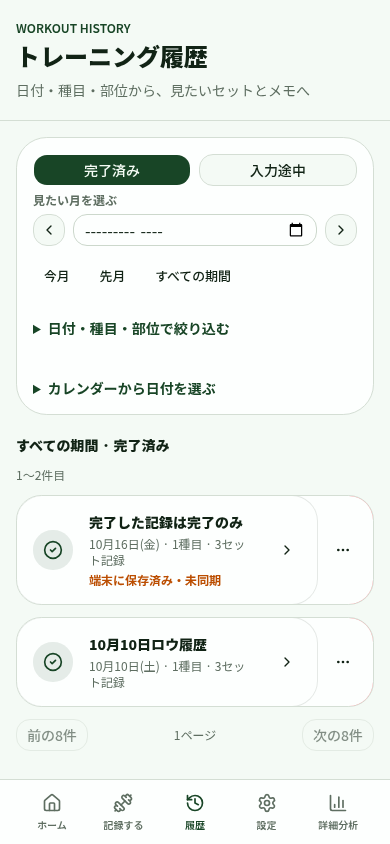
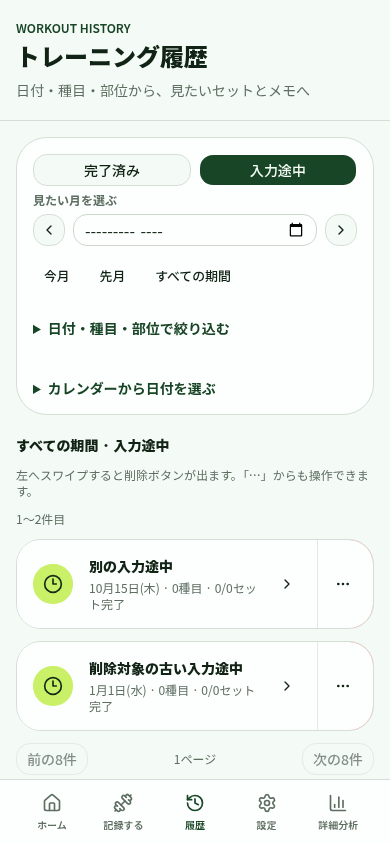
fix: keep settings focused on exercise management

diff --git a/components/settings/settings-dashboard.tsx b/components/settings/settings-dashboard.tsx
@@ -1,22 +1,15 @@
 'use client';
 
-import { useCallback, useEffect, useState } from 'react';
+import { useEffect, useState } from 'react';
 import { Button } from '@/components/ui/button';
 import { Input } from '@/components/ui/input';
-import { listExerciseMasters, getWorkoutSyncState } from '@/lib/workouts/api-client';
+import { listExerciseMasters } from '@/lib/workouts/api-client';
 import { updateCachedExerciseMaster } from '@/lib/workouts/exercise-master-cache';
-import { readLocalWorkoutSources, exportWorkoutRecoveryData, recoverLegacyWorkoutQueue, reconcileDeletedWorkout, repairCompletedWorkoutDraft } from '@/lib/workouts/local-drafts';
-import { syncPendingWorkoutMutations } from '@/lib/workouts/sync-queue';
 import type {
   ExerciseMaster,
   UpdateExerciseMasterInput,
 } from '@/lib/workouts/types';
-import { summarizeSyncQueue } from '@/lib/workouts/sync-overview';
 import { LoadBasisSelect } from '@/components/workouts/load-basis-select';
-import { WorkoutSummaryList } from '@/components/workouts/workout-summary-list';
-import { deleteWorkoutRecord } from '@/lib/workouts/draft-deletion';
-import { syncAutomatically } from '@/lib/workouts/sync-timing';
-import { WorkoutSyncList } from './workout-sync-list';
 
 export function SettingsDashboard() {
   const [items, setItems] = useState<ExerciseMaster[]>([]);
@@ -24,46 +17,8 @@ export function SettingsDashboard() {
   const [query, setQuery] = useState('');
   const [masterError, setMasterError] = useState<string | null>(null);
   const [loading, setLoading] = useState(true);
-  const [local, setLocal] = useState<Awaited<
-    ReturnType<typeof readLocalWorkoutSources>
-  > | null>(null);
-  const [localError, setLocalError] = useState<string | null>(null);
-  const [busy, setBusy] = useState<string | null>(null);
-  const [notice, setNotice] = useState<string | null>(null);
-  const refreshLocal = useCallback(
-    () =>
-      readLocalWorkoutSources().then(setLocal, (cause: unknown) =>
-        setLocalError(
-          cause instanceof Error
-            ? cause.message
-            : '端末の保存状態を取得できませんでした',
-        ),
-      ),
-    [],
-  );
-
   useEffect(() => {
     let alive = true;
-    const update = () => {
-      void readLocalWorkoutSources().then(
-        (data) => {
-          if (alive) {
-            setLocal(data);
-            setLocalError(null);
-          }
-        },
-        (cause: unknown) => {
-          if (alive)
-            setLocalError(
-              cause instanceof Error
-                ? cause.message
-                : '保存状態を取得できませんでした',
-            );
-        },
-      );
-    };
-    update();
-    window.addEventListener('repwise-sync-queue-change', update);
     void listExerciseMasters()
       .then(
         (data) => {
@@ -83,7 +38,6 @@ export function SettingsDashboard() {
       });
     return () => {
       alive = false;
-      window.removeEventListener('repwise-sync-queue-change', update);
     };
   }, []);
 
@@ -100,112 +54,9 @@ export function SettingsDashboard() {
       setLoading(false);
     }
   };
-  const retrySync = async (id: string) => {
-    setBusy(id);
-    setNotice(null);
-    try {
-      const result = await syncPendingWorkoutMutations(id, { manual: true });
-      setNotice(
-        result.failed
-          ? `同期できませんでした：${result.failed.lastError ?? '内容を確認してください'}`
-          : result.remaining
-            ? '残りの記録は自動同期を待っています。'
-            : '同期が完了しました。',
-      );
-    } catch (cause) {
-      setNotice(
-        cause instanceof Error ? cause.message : '再試行できませんでした',
-      );
-    } finally {
-      await refreshLocal();
-      setBusy(null);
-    }
-  };
-  const removeRecord = async (id: string) => {
-    const draft = local?.drafts.find(item => item.workoutId === id);
-    if (!window.confirm(`「${draft?.workout.name ?? 'この記録'}」を削除しますか？`)) return;
-    setBusy(id);
-    try {
-      await deleteWorkoutRecord(id);
-      setNotice('記録を削除しました。');
-      void syncAutomatically(id).catch(() => undefined);
-    } catch (cause) { setNotice(cause instanceof Error ? cause.message : '削除できませんでした。'); }
-    finally { await refreshLocal(); setBusy(null); }
-  };
-  const recoverRecord = async (id: string) => {
-    setBusy(id);
-    setNotice(null);
-    try {
-      await recoverLegacyWorkoutQueue();
-      const data = await readLocalWorkoutSources();
-      const draft = data.drafts.find((item) => item.workoutId === id);
-      if (!draft) throw new Error('読めない形式の記録です。端末の記録を書き出して個別の確認が必要です。');
-      const { workout: server } = await getWorkoutSyncState(id);
-      if (draft.draftStatus === 'deleted') {
-        if (!server) throw new Error('接続先に記録を確認できませんでした。記録を保護したまま、時間をおいて再確認します。');
-        if (!window.confirm(`「${server.name}」の削除を完了しますか？別の端末で更新された内容も含めて削除します。`)) return;
-        await reconcileDeletedWorkout(id, server, { draft, mutations: data.mutations.filter((item) => item.workoutId === id) });
-        const result = await syncPendingWorkoutMutations(id);
-        setNotice(result.failed ? `原本は保護済みです。${result.failed.lastError}` : '削除の復旧が完了しました。原本は書き出しに含まれます。');
-      } else if (draft.draftStatus === 'completed' && draft.workout.status !== 'completed') {
-        await repairCompletedWorkoutDraft(server ?? draft.workout);
-        const repaired = (await readLocalWorkoutSources()).drafts.find((item) => item.workoutId === id);
-        setNotice(repaired?.workout.status === 'completed' ? '完了記録の表示を復旧しました。' : '完了状態を確認できません。原本を書き出して確認してください。');
-      } else {
-        const result = await syncPendingWorkoutMutations(id, { manual: true });
-        setNotice(result.failed ? `記録は保持されています。${result.failed.lastError}` : '再試行しました。');
-      }
-    } catch (cause) {
-      setNotice(cause instanceof Error ? cause.message : '復旧できませんでした。原本は保持されています。');
-    } finally { await refreshLocal(); setBusy(null); }
-  };
-  const exportLocal = async () => {
-    try {
-      const data = await exportWorkoutRecoveryData();
-      const blob = new Blob(
-        [
-          JSON.stringify(
-            { exportedAt: new Date().toISOString(), ...data },
-            null,
-            2,
-          ),
-        ],
-        { type: 'application/json' },
-      );
-      const url = URL.createObjectURL(blob);
-      const anchor = document.createElement('a');
-      anchor.href = url;
-      anchor.download = `repwise-records-${new Date().toISOString().slice(0, 10)}.json`;
-      anchor.click();
-      window.setTimeout(() => URL.revokeObjectURL(url), 1000);
-      setNotice('この端末の記録を書き出しました。');
-    } catch (cause) {
-      setNotice(
-        cause instanceof Error ? cause.message : '書き出せませんでした',
-      );
-    }
-  };
   const exercise = items.find((item) => item.id === selected);
-  const queueEntries = summarizeSyncQueue(local?.drafts ?? [], local?.mutations ?? []);
-  const visibleEntries = queueEntries.filter((entry) => !entry.deleted);
   return (
     <div className="mx-auto max-w-3xl space-y-6 p-4 sm:p-7">
-      <details className="rounded-3xl border bg-card p-5">
-        <summary className="min-h-11 cursor-pointer py-3 text-lg font-black">不要な記録を整理</summary>
-        <p className="mt-2 mb-4 text-sm text-muted-foreground">不要な入力途中の記録を削除できます。「…」または左へスワイプで削除を選べます。変更の反映は自動で行います。</p>
-        <WorkoutSummaryList status="active" emptyMessage="入力途中の記録はありません" />
-        {queueEntries.filter(entry => !entry.deleted && ['blocked', 'conflict'].includes(entry.head.syncStatus)).map(entry => (
-          <div key={entry.id} className="mt-3 rounded-xl border p-3">
-            <p className="break-words font-bold">{entry.draft?.workout.name ?? '確認が必要な記録'}</p>
-            <p className="mt-1 text-sm text-muted-foreground">{entry.deleted ? '記録は一覧から削除されています。自動で処理できない変更があるため、削除を確認してください。' : entry.head.lastError?.includes('HTTP 401') || entry.head.lastError?.includes('HTTP 403') ? 'ログイン状態を確認してください。記録は保護されています。' : entry.head.syncStatus === 'conflict' ? '別の端末で変更されています。必要な記録か確認してください。' : '古い入力内容に問題があります。不要ならそのまま削除できます。'}</p>
-            <div className="mt-2 flex flex-wrap gap-2">
-              {!entry.deleted && <Button variant="destructive" className="min-h-11" disabled={busy !== null} onClick={() => void removeRecord(entry.id)}>この記録を削除</Button>}
-              {entry.deleted && <Button variant="outline" className="min-h-11" disabled={busy !== null} onClick={() => void recoverRecord(entry.id)}>削除を完了</Button>}
-            </div>
-          </div>
-        ))}
-        {notice && <output className="mt-3 block text-sm">{notice}</output>}
-      </details>
       <section className="rounded-3xl border bg-card p-5">
         <h2 className="text-lg font-black">種目の設定</h2>
         <p className="mt-2 text-sm text-muted-foreground">
@@ -279,55 +130,6 @@ export function SettingsDashboard() {
           </>
         )}
       </section>
-      <details className="rounded-3xl border bg-card p-5">
-        <summary className="min-h-11 cursor-pointer py-3 text-sm font-bold">詳細・トラブルシューティング</summary>
-        <h2 className="text-lg font-black">保存と同期</h2>
-        <p className="mt-2 text-sm text-muted-foreground">
-          入力内容はすぐにこの端末へ保存し、入力が止まってからまとめて同期します。
-        </p>
-        {localError ? (
-          <p role="alert" className="mt-3 text-sm text-destructive">
-            {localError}
-          </p>
-        ) : !local ? (
-          <p className="mt-3 text-sm">保存状態を確認中…</p>
-        ) : (
-          <p className="mt-3 text-sm">
-            端末の保存済み記録：
-            {
-              local.drafts.filter((item) => item.draftStatus !== 'deleted' && !item.workout.deletedAt)
-                .length
-            }
-            件 · 確認が必要な記録：{visibleEntries.length}件
-          </p>
-        )}
-        <div className="mt-4 space-y-3">
-          <WorkoutSyncList entries={visibleEntries} busy={busy} onRetry={(id) => void retrySync(id)} onRecover={(id) => void recoverRecord(id)} />
-        </div>
-        {local && (local.unreadableDrafts.length > 0 || local.unreadableMutations.length > 0) && (
-          <p role="alert" className="mt-4 text-sm text-destructive">形式を確認できない記録：{local.unreadableDrafts.length}件・変更：{local.unreadableMutations.length}件。削除せず保護しています。書き出した原本を使った個別確認が必要です。</p>
-        )}
-        {local?.drafts.filter((draft) => draft.draftStatus === 'completed' && draft.workout.status !== 'completed').map((draft) => (
-          <div key={draft.workoutId} className="mt-4 rounded-xl border p-3">
-            <p>{draft.workout.name}：完了状態の表示を確認してください。</p>
-            <Button className="mt-2 min-h-11" disabled={busy !== null} onClick={() => void recoverRecord(draft.workoutId)}>完了状態を復旧</Button>
-          </div>
-        ))}
-        <Button
-          type="button"
-          variant="outline"
-          className="mt-4 w-full"
-          onClick={() => void exportLocal()}
-        >
-          この端末の記録を書き出す
-        </Button>
-        <p className="mt-2 text-xs text-muted-foreground">
-          同期前の記録はこの端末・このサイトに保存されています。書き出したファイルにはトレーニング記録とメモが含まれます。
-        </p>
-        {notice && (
-          <output className="mt-3 block text-sm font-bold">{notice}</output>
-        )}
-      </details>
     </div>
   );
 }

diff --git a/docs/reviews/clean-history/README.md b/docs/reviews/clean-history/README.md
@@ -8,7 +8,7 @@
 - 実績のない完了フラグや、削除済みの記録を完了一覧へ出さない。削除後は両一覧・ホーム・カレンダー・分析の表示対象から外す。
 - 入力途中・完了済みのどちらからも削除可能。確認は「元に戻せません」の1回。削除の状態確認・取り消し・復元の操作はなくした。
 - 日付・種目・部位の検索は必要時に開く。通常は記録一覧を先に見られる。
-- 設定から同期間隔、削除反映待ち一覧、削除状態未確認の表示と確認操作を撤去した。削除した記録の名前や確認操作は詳細・トラブルシューティングにも出さない。
+- 設定は種目の管理だけにした。同期間隔、保存と同期、詳細・トラブルシューティング、記録整理をすべて撤去した。同期や旧データの復旧処理はバックグラウンドで継続する。
 
 「削除状態が未確認」は旧データに削除完了ACKの印がない、という内部状態だった。利用者が確認するものとして表示するのをやめ、裏で削除を完了させる。
 
@@ -44,7 +44,7 @@
 - `pnpm build`：成功
 - SQL/HTTP回帰：完全削除後のセット・種目行と原本内容の消去、復元拒否、他の記録の保護、古い作成/更新、同時削除の競合、未作成・不正入力対象の完全削除、二重送信、任意目標の未設定化。
 - IndexedDB回帰：古いキューの整理と完全削除後の原本除去、別端末の410からの収束、入力修正後の再保存、未修正/別端末更新の非破壊。
-- Chromium 375/390px：完了済みと入力途中の分離、実績なし除外、削除後reloadでの非復活、削除状態/復元/同期間隔の非表示、回数を修正するだけで保存完了。9チェック成功・ブラウザ例外0件。[結果](browser-results.jsonl)
+- Chromium 375/390px：完了済みと入力途中の分離、実績なし除外、削除後は完了済み・入力途中の両方でreload後も非復活、設定には種目の管理だけを表示、回数を修正するだけで保存完了。10チェック成功・ブラウザ例外0件。[結果](browser-results.jsonl)
 
 検証は専用localhostプロファイル・全API差し替えと、テスト内インメモリSQLiteのみ。再実行：`node scripts/review-draft-cleanup-side-reps.mjs --clean-history`（専用Chromium debug port 9223と `pnpm dev` が必要）。D1 migrationは追加・適用していない。
 
